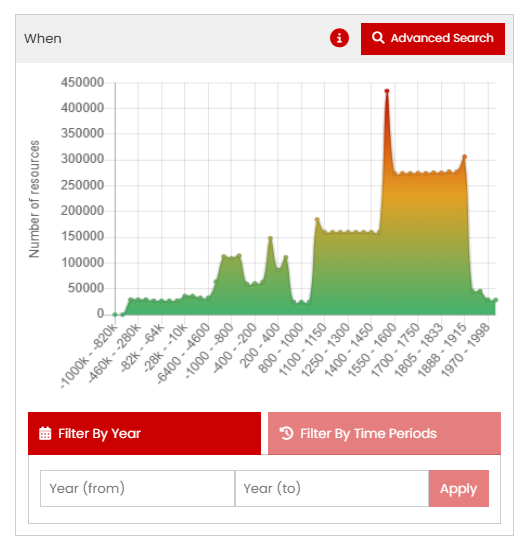
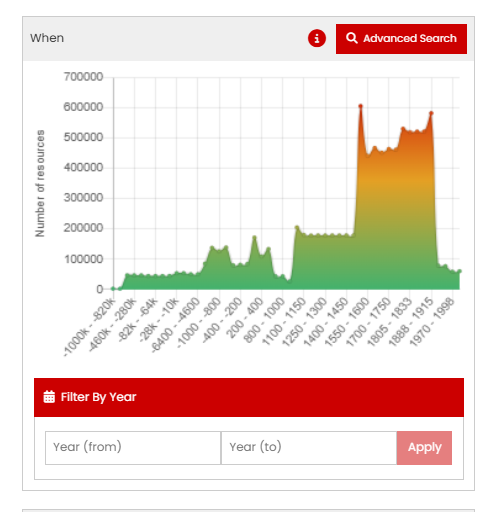
Final update before release 101025

diff --git a/docs/Section-4_Search_Filters.md b/docs/Section-4_Search_Filters.md
@@ -7,9 +7,10 @@ description: How to search the ADS Data Catalogue using the additional search fi
 
 In addition to the  [**What**](Section-1_What.md), [**Where**](Section-2_Map_Where.md), and [**When**](Section-3_Time_period_When.md) tools, several filters operate on specific metadata fields to help you refine your search results. 
 
+Below is a list of the avaiable search filter options, including the context for each filter and advice on how best to use them. 
+
 ![Search filters](../assets/56-Filters_all.png) 
 
-Below is a list of the avaiable search filter options, including the context for each filter and advice on how best to use them. 
 
 ## Resource Type
 
@@ -52,7 +53,7 @@ When search results are displayed, the Getty AAT filter will only show the first
 
 | Publisher | Description |
 | ----------- | ----------- |
-| &nbsp;&nbsp;&nbsp;&nbsp;&nbsp;&nbsp;&nbsp;&nbsp;&nbsp;&nbsp;&nbsp;&nbsp;&nbsp;&nbsp;&nbsp;&nbsp;&nbsp;&nbsp;&nbsp;&nbsp;&nbsp;&nbsp;&nbsp;&nbsp;&nbsp;&nbsp;&nbsp;&nbsp;&nbsp;&nbsp;&nbsp;&nbsp;&nbsp;&nbsp;&nbsp;&nbsp;&nbsp;&nbsp;&nbsp;&nbsp;&nbsp;&nbsp;&nbsp;&nbsp;&nbsp;&nbsp;&nbsp;&nbsp;&nbsp;&nbsp;&nbsp;&nbsp;&nbsp;&nbsp;&nbsp;&nbsp;&nbsp;&nbsp;&nbsp;&nbsp;&nbsp;&nbsp;&nbsp;&nbsp;&nbsp;&nbsp;&nbsp;&nbsp;&nbsp;&nbsp;&nbsp;&nbsp;&nbsp;&nbsp;&nbsp;&nbsp;&nbsp;&nbsp;![List of dataset publishers](../assets/23-Publisher.png) | The Publisher is the organisation that has supplied the metadata to the Data Catalogue and is responsible for the maintaining and updating this metadata. Currently the ADS is the only publisher included in the Data Catalogue. <Br><Br>The Publisher may also own the original data or be responsible for its maintenance, as is the case with regional and national repositories. |
+| &nbsp;&nbsp;&nbsp;&nbsp;&nbsp;&nbsp;&nbsp;&nbsp;&nbsp;&nbsp;&nbsp;&nbsp;&nbsp;&nbsp;&nbsp;&nbsp;&nbsp;&nbsp;&nbsp;&nbsp;&nbsp;&nbsp;&nbsp;&nbsp;&nbsp;&nbsp;&nbsp;&nbsp;&nbsp;&nbsp;&nbsp;&nbsp;&nbsp;&nbsp;&nbsp;&nbsp;&nbsp;&nbsp;&nbsp;&nbsp;&nbsp;&nbsp;&nbsp;&nbsp;&nbsp;&nbsp;&nbsp;&nbsp;&nbsp;&nbsp;&nbsp;&nbsp;&nbsp;&nbsp;&nbsp;&nbsp;&nbsp;&nbsp;&nbsp;&nbsp;&nbsp;&nbsp;&nbsp;&nbsp;&nbsp;&nbsp;&nbsp;&nbsp;&nbsp;&nbsp;&nbsp;&nbsp;&nbsp;&nbsp;&nbsp;&nbsp;&nbsp;&nbsp;![List of dataset publishers](../assets/23-Publisher.png) | The Publisher is the organisation that has supplied the metadata to the Data Catalogue and is responsible for the maintaining and updating this metadata.<Br><Br>The Publisher may also own the original data or be responsible for its maintenance, as is the case with regional and national repositories. |
 
 The “i” icon next to each name provides a short summary about the Publisher on a new page. This page also shows the geographic distribution of that publisher's records on a map and displays the first 20 record, below a link to the Publisher’s website. The second link displays these results in the standard ‘Results’ page.
 
@@ -66,19 +67,20 @@ The “i” icon next to each name provides a short summary about the Publisher 
 | ----------- | ----------- |
 | &nbsp;&nbsp;&nbsp;&nbsp;&nbsp;&nbsp;&nbsp;&nbsp;&nbsp;&nbsp;&nbsp;&nbsp;&nbsp;&nbsp;&nbsp;&nbsp;&nbsp;&nbsp;&nbsp;&nbsp;&nbsp;&nbsp;&nbsp;&nbsp;&nbsp;&nbsp;&nbsp;&nbsp;&nbsp;&nbsp;&nbsp;&nbsp;&nbsp;&nbsp;&nbsp;&nbsp;&nbsp;&nbsp;&nbsp;&nbsp;&nbsp;&nbsp;&nbsp;&nbsp;&nbsp;&nbsp;&nbsp;&nbsp;&nbsp;&nbsp;&nbsp;&nbsp;&nbsp;&nbsp;&nbsp;&nbsp;&nbsp;&nbsp;&nbsp;&nbsp;&nbsp;&nbsp;&nbsp;&nbsp;&nbsp;&nbsp;&nbsp;&nbsp;&nbsp;&nbsp;&nbsp;&nbsp;&nbsp;&nbsp;&nbsp;&nbsp;&nbsp;&nbsp;&nbsp;&nbsp;&nbsp;![List of contributors](../assets/25-Contributor.png) | The Contributor is typically (but not always) the original owner of the data. The Publisher creates and maps the metadata in the Catalogue on behalf of the Contributor.
 
-## Original Subject
-
-| Original Subject| Description |
-| ----------- | ----------- |
-| &nbsp;&nbsp;&nbsp;&nbsp;&nbsp;&nbsp;&nbsp;&nbsp;&nbsp;&nbsp;&nbsp;&nbsp;&nbsp;&nbsp;&nbsp;&nbsp;&nbsp;&nbsp;&nbsp;&nbsp;&nbsp;&nbsp;&nbsp;&nbsp;&nbsp;&nbsp;&nbsp;&nbsp;&nbsp;&nbsp;&nbsp;&nbsp;&nbsp;&nbsp;&nbsp;&nbsp;&nbsp;&nbsp;&nbsp;&nbsp;&nbsp;&nbsp;&nbsp;&nbsp;&nbsp;&nbsp;&nbsp;&nbsp;&nbsp;&nbsp;&nbsp;&nbsp;&nbsp;&nbsp;&nbsp;&nbsp;&nbsp;&nbsp;&nbsp;&nbsp;&nbsp;&nbsp;&nbsp;&nbsp;&nbsp;&nbsp;&nbsp;&nbsp;&nbsp;&nbsp;&nbsp;&nbsp;&nbsp;&nbsp;&nbsp;&nbsp;&nbsp;&nbsp;&nbsp;&nbsp;&nbsp;&nbsp;&nbsp;&nbsp;&nbsp;&nbsp;&nbsp;&nbsp;&nbsp;&nbsp;&nbsp;&nbsp;&nbsp;&nbsp;&nbsp;&nbsp;&nbsp;![Option list of original subject used in the metadata](../assets/26-Original-subject.png)| The original subject is the term from the ontology used by the Contributor and/or Publisher, which has been mapped to the Getty AAT.<Br><Br>The Original subject will, in most cases, be in the native language of the provider. The option to filter using these localised terms facilitates both multi-lingual searches and terminology specific to a single Publisher. |
-
 ## Country
 
 | Country | Description |
 | ----------- | ----------- |
 | &nbsp;&nbsp;&nbsp;&nbsp;&nbsp;&nbsp;&nbsp;&nbsp;&nbsp;&nbsp;&nbsp;&nbsp;&nbsp;&nbsp;&nbsp;&nbsp;&nbsp;&nbsp;&nbsp;&nbsp;&nbsp;&nbsp;&nbsp;&nbsp;&nbsp;&nbsp;&nbsp;&nbsp;&nbsp;&nbsp;&nbsp;&nbsp;&nbsp;&nbsp;&nbsp;&nbsp;&nbsp;&nbsp;&nbsp;&nbsp;&nbsp;&nbsp;&nbsp;&nbsp;&nbsp;&nbsp;&nbsp;&nbsp;&nbsp;&nbsp;&nbsp;&nbsp;&nbsp;&nbsp;&nbsp;&nbsp;&nbsp;&nbsp;&nbsp;&nbsp;&nbsp;&nbsp;&nbsp;&nbsp;&nbsp;&nbsp;&nbsp;&nbsp;&nbsp;&nbsp;&nbsp;&nbsp;&nbsp;&nbsp;&nbsp;&nbsp;&nbsp;&nbsp; ![Country filter showing some options](../assets/57-Country_filter.png) | Country is the modern geographical region(s) that relates to each resource.<Br><Br> The Map tool can be used to define smaller areas or regions that cross multiple countries where modern boundaries do not apply. |
 
+## Original Subject
+
+| Original Subject| Description |
+| ----------- | ----------- |
+| &nbsp;&nbsp;&nbsp;&nbsp;&nbsp;&nbsp;&nbsp;&nbsp;&nbsp;&nbsp;&nbsp;&nbsp;&nbsp;&nbsp;&nbsp;&nbsp;&nbsp;&nbsp;&nbsp;&nbsp;&nbsp;&nbsp;&nbsp;&nbsp;&nbsp;&nbsp;&nbsp;&nbsp;&nbsp;&nbsp;&nbsp;&nbsp;&nbsp;&nbsp;&nbsp;&nbsp;&nbsp;&nbsp;&nbsp;&nbsp;&nbsp;&nbsp;&nbsp;&nbsp;&nbsp;&nbsp;&nbsp;&nbsp;&nbsp;&nbsp;&nbsp;&nbsp;&nbsp;&nbsp;&nbsp;&nbsp;&nbsp;&nbsp;&nbsp;&nbsp;&nbsp;&nbsp;&nbsp;&nbsp;&nbsp;&nbsp;&nbsp;&nbsp;&nbsp;&nbsp;&nbsp;&nbsp;&nbsp;&nbsp;&nbsp;&nbsp;&nbsp;&nbsp;&nbsp;&nbsp;&nbsp;&nbsp;&nbsp;&nbsp;&nbsp;&nbsp;&nbsp;&nbsp;&nbsp;&nbsp;&nbsp;&nbsp;&nbsp;&nbsp;&nbsp;&nbsp;&nbsp;![Option list of original subject used in the metadata](../assets/26-Original-subject.png)| The original subject is the term from the ontology used by the Contributor and/or Publisher, which has been mapped to the Getty AAT.<Br><Br>The Original subject will, in most cases, be in the native language of the provider. The option to filter using these localised terms facilitates both multi-lingual searches and terminology specific to a single Publisher. |
+
 ## Data Type
+
 | Data Type | Description |
 | ----------- | ----------- |
 |&nbsp;&nbsp;&nbsp;&nbsp;&nbsp;&nbsp;&nbsp;&nbsp;&nbsp;&nbsp;&nbsp;&nbsp;&nbsp;&nbsp;&nbsp;&nbsp;&nbsp;&nbsp;&nbsp;&nbsp;&nbsp;&nbsp;&nbsp;&nbsp;&nbsp;&nbsp;&nbsp;&nbsp;&nbsp;&nbsp;&nbsp;&nbsp;&nbsp;&nbsp;&nbsp;&nbsp;&nbsp;&nbsp;&nbsp;&nbsp;&nbsp;&nbsp;&nbsp;&nbsp;&nbsp;&nbsp;&nbsp;&nbsp;&nbsp;&nbsp;&nbsp;&nbsp;&nbsp;&nbsp;&nbsp;&nbsp;&nbsp;&nbsp;&nbsp;&nbsp;&nbsp;&nbsp;&nbsp;&nbsp;&nbsp;&nbsp;&nbsp;&nbsp;&nbsp;&nbsp;&nbsp;&nbsp;&nbsp;&nbsp;&nbsp;&nbsp;&nbsp;&nbsp;&nbsp;&nbsp;&nbsp;&nbsp;&nbsp;&nbsp;&nbsp;&nbsp;&nbsp;&nbsp;&nbsp; ![Country filter showing some options](../assets/58-Data_type_filter.png) | The Data Type refers to the structure of the resource. Most resources are digital in format although some metadata in the Catalogue refers to physical publications. |
@@ -89,7 +91,7 @@ The dating filter works solely on the information in the ‘Dating’ field of t
 
 | Dating | Description |
 | ----------- | ----------- |
-| &nbsp;&nbsp;&nbsp;&nbsp;&nbsp;&nbsp;&nbsp;&nbsp;&nbsp;&nbsp;&nbsp;&nbsp;&nbsp;&nbsp;&nbsp;&nbsp;&nbsp;&nbsp;&nbsp;&nbsp;&nbsp;&nbsp;&nbsp;&nbsp;&nbsp;&nbsp;&nbsp;&nbsp;&nbsp;&nbsp;&nbsp;&nbsp;&nbsp;&nbsp;&nbsp;&nbsp;&nbsp;&nbsp;&nbsp;&nbsp;&nbsp;&nbsp;&nbsp;&nbsp;&nbsp;&nbsp;&nbsp;&nbsp;&nbsp;&nbsp;&nbsp;&nbsp;&nbsp;&nbsp;&nbsp;&nbsp;&nbsp;&nbsp;&nbsp;&nbsp;&nbsp;&nbsp;&nbsp;&nbsp;&nbsp;&nbsp;&nbsp;&nbsp;&nbsp;&nbsp;&nbsp;&nbsp;&nbsp;&nbsp;&nbsp;&nbsp;&nbsp;&nbsp;&nbsp;&nbsp;&nbsp;&nbsp;&nbsp;&nbsp;&nbsp;&nbsp;&nbsp;&nbsp;&nbsp;&nbsp;&nbsp;&nbsp;&nbsp;&nbsp;&nbsp;![List of Dating options for text entry of "medi"](../assets/27-Dating.png) | In this example, all matches to the first four characters “medi” entered in the text box are listed. <p>Several matches to the intended term “medieval” are shown, as well as others where different spellings or languages have been used in the original metadata. <p>One term, "Holoceno medio" (Mid-Holocene) is an unintended match. |
+| &nbsp;&nbsp;&nbsp;&nbsp;&nbsp;&nbsp;&nbsp;&nbsp;&nbsp;&nbsp;&nbsp;&nbsp;&nbsp;&nbsp;&nbsp;&nbsp;&nbsp;&nbsp;&nbsp;&nbsp;&nbsp;&nbsp;&nbsp;&nbsp;&nbsp;&nbsp;&nbsp;&nbsp;&nbsp;&nbsp;&nbsp;&nbsp;&nbsp;&nbsp;&nbsp;&nbsp;&nbsp;&nbsp;&nbsp;&nbsp;&nbsp;&nbsp;&nbsp;&nbsp;&nbsp;&nbsp;&nbsp;&nbsp;&nbsp;&nbsp;&nbsp;&nbsp;&nbsp;&nbsp;&nbsp;&nbsp;&nbsp;&nbsp;&nbsp;&nbsp;&nbsp;&nbsp;&nbsp;&nbsp;&nbsp;&nbsp;&nbsp;&nbsp;&nbsp;&nbsp;&nbsp;&nbsp;&nbsp;&nbsp;&nbsp;&nbsp;&nbsp;&nbsp;&nbsp;&nbsp;&nbsp;&nbsp;&nbsp;&nbsp;&nbsp;&nbsp;&nbsp;&nbsp;&nbsp;&nbsp;&nbsp;&nbsp;&nbsp;&nbsp;&nbsp;![List of Dating options for text entry of "medi"](../assets/27-Dating.png) | In this example, all matches to the first four characters “medi” entered in the text box are listed. <Br><Br>Several matches to the intended term “medieval” are shown, as well as others where different spellings or languages have been used in the original metadata. |
 
 ## Filter options on the results page
 

diff --git a/docs/Section-3_Time_period_When.md b/docs/Section-3_Time_period_When.md
@@ -5,7 +5,7 @@ description: The search options within the ADS Data Catalogue related to 'When' 
 
 # When - The Time period tool
 
-The When tool consists of three different ways of selecting a time period of interest: a graphic where you can use the mouse to select the date range, a text entry box where you can specify start and end years, and a separate filter that uses named time periods as defined in [PeriodO](https://perio.do/en/).
+The When tool consists of two different ways of selecting a time period of interest: a graphic where you can use the mouse to select the date range and a text entry box where you can specify start and end years.
 
 ## The Time line
 
@@ -18,33 +18,13 @@ The When tool consists of three different ways of selecting a time period of int
 
 ## Filter by Year 
 
-An alternative method for selecting a time period is to enter the start and end years in the text box below the graph. 
+An alternative method for selecting a time period is to enter the start and end years in the text box below the graph. Using this menu you can filter the search results by a time period. For dates before 0 AD, use a - sign before the number. The example below shows a search filter between 800 BC and AD 43.
+
+<figure markdown="span">
+  ![Filter for typing in start and end dates](../assets/filter_by_year.png)
+  <figcaption>Filter By Year menu</figcaption>
+</figure>
 
 Using either method (graph or direct year entry), all records that specify a time period falling within or overlapping your selected time period will be returned in the results – as shown in the illustration below.
 
 ![Diagram which shows how resource with time periods which overlap the selected period are included in the results](../assets/16-Resource-time-period-diagram.png)
-
-<p align = center><i>How the time period filter works with the start and end dates specified for each resource</i></p>
-
-## Filter by Time Periods
-
-This option enables filtering of the results by named time periods as defined in [PeriodO](https://perio.do/en/). There are two stages for this filter: Temporal region and Cultural period. The Cultural period can be used as a standalone filter or in combination with Temporal region.
-
-Each box will display up to the first 20 periods. When more exist, you can view additional results by clicking the 'Get 20 more results' button at the bottom of the list. Alternatively, use the text input box above the list to search for specific periods. All matching options are shown as you type.
-
-### Temporal region
-
-| Temporal region | Description |
-| ----------- | ----------- |
-| ![List of temporal region options used to define a time period](../assets/17-Temporal-region-diagram.png) | **Temporal region** displays (mostly modern) regions of interest. Most are at the country level, although there are also some larger historical areas such as the Roman Empire. <p> Next to each region name is the number of defined periods available in PeriodO. |
-| ![Selected temporaral regions from Japan at the top of the list](../assets/18-Named-time-period.png) | Each selected region automatically moves to the top of the list. You can remove and add regions as required. Once you have completed your selection of the regions, click on the Cultural period option to display the list of periods associated with each region. These are listed in date order, starting with the earliest. <p><p> Please note that the time period graph, map and results page do not update until the filter is complete - you must select at least one Cultural period. |
-
-
-### Cultural period
-
-| Cultural period | Description |
-| ----------- | ----------- |
-|  ![List of Cultural periods shown in date order](../assets/19-Cultural-periods.png) |**Cultural periods** displays all the named periods in date order (from earliest) along with the number of matching resources. For each named period, the matching territory is indicated (with ISO 3 letter country code, where available) along with the start year, resource count, and a Help icon. <p>Once you've selected at least one **Temporal region** and one **Cultural period**, the Results page and Time line is updated. |
-| ![Mouseover text showing information about Medieval (HUN) time period](../assets/20-Period-information.png) | Hovering the mouse over the Help icon reveals additional information about the Cultural period. |
-
-You can also use the Cultural period filter independently from the Temporal region filter, especially when searching for a specific period. For example, entering ‘Roman’ in the Cultural period text box will show matches from multiple countries. 

diff --git a/docs/index.md b/docs/index.md
@@ -1,9 +1,10 @@
+![ADS Data Catalogue Logo](assets/ads_data_catalogue_logo.png){ width="650" }
 
 # Getting Started
 
 The Archaeology Data Service [**Data Catalogue**](https://archaeologydataservice.ac.uk/data-catalogue/) is a comprehensive platform for discovering and accessing archaeological data and resources from across the UK. 
 
-With access to over 1 million archaeological resources, the catalogue solves the challenge of discovering relevant materials by bringing together collections deposited with the ADS into one searchable platform. Explore the UK's archaeological heritage through an intuitive interface that lets you search by location, time period, and subject matter.
+With access to over 1 million archaeological resources, the catalogue makes it easy to discover relevant materials by bringing together collections deposited with the ADS and information from historic environment inventories into one searchable platform. Explore the UK's archaeological heritage through an intuitive interface that lets you search by location, time period, and subject matter."
 
 ![ADS Data Catalogue search results page](ads_data_cat_intro.png)
 
@@ -13,7 +14,7 @@ The Catalogue allows you to search using multiple parameters:
 - :earth_americas: Where (geographic location)
 - :clock1: When (time periods). 
 
-Search results can also be displayed in multiple ways: as individual listings, aggregated on an interactive map, or plotted on a timeline view.
+Search results can be displayed in multiple ways: as individual listings, aggregated on an interactive map, or plotted on a timeline view.
 
 Built on the same robust infrastructure developed by the [ARIADNE Research Infrastructure](https://www.ariadne-research-infrastructure.eu/) for the [ARIADNE Portal](https://portal.ariadne-infrastructure.eu/), our catalogue is specifically designed to serve the needs of the ADS community, while presenting our distinctive collection of archaeological datasets and digital resources.
 
@@ -36,4 +37,4 @@ Navigate through the guide using the **menu on the left-hand side of the page**.
 
     Use the search function at the top of the page to quickly jump to any topic across the entire guide.
 
-Ready to start exploring? Begin with [Searching the Catalogue](Section-0_Searching_Catalogue.md) to learn the basics or jump straight to the [Catalogue](LINK) to start discovering archaeological resources.
+Ready to start exploring? Begin with [Searching the Catalogue](Section-0_Searching_Catalogue.md) to learn the basics or jump straight to the [Catalogue](https://archaeologydataservice.ac.uk/data-catalogue/) to start discovering archaeological resources.

diff --git a/docs/Section-1_What.md b/docs/Section-1_What.md
@@ -13,7 +13,7 @@ The What tool allows you to search for specific keywords and terms across select
 | &nbsp;&nbsp;&nbsp;&nbsp;&nbsp;&nbsp;&nbsp;&nbsp;&nbsp;&nbsp;&nbsp;&nbsp;&nbsp;&nbsp;&nbsp;&nbsp;&nbsp;&nbsp;&nbsp;&nbsp;&nbsp;&nbsp;&nbsp;&nbsp;&nbsp;&nbsp;&nbsp;&nbsp;&nbsp;&nbsp;&nbsp;&nbsp;&nbsp;&nbsp;&nbsp;&nbsp;&nbsp;&nbsp;&nbsp;&nbsp;&nbsp;&nbsp;&nbsp;&nbsp;&nbsp;&nbsp;&nbsp;&nbsp;&nbsp;&nbsp;&nbsp;&nbsp;&nbsp;&nbsp;&nbsp;&nbsp;&nbsp;&nbsp;&nbsp;&nbsp;&nbsp;&nbsp;&nbsp;&nbsp;&nbsp;&nbsp;&nbsp;&nbsp;&nbsp;&nbsp;&nbsp;&nbsp;&nbsp;&nbsp;&nbsp;<Br>![Drop down list of basic text search filters - All fields, Time period, Place, Title, Getty AAT Subject](../assets/03-Filters.png) | The search text entry box is located in the top left corner of the page. Five filters are available based on the metadata supplied for each resource: <Br><Br>**All fields** – searches the entire record for matching terms.<Br><Br>**Time period** – searches for time period(s) names, e.g. Iron Age, medieval.<Br><Br>**Place** – searches for place names, from specific locations to continents.<Br><Br>**Title** – searches only within the title fields for matching terms.<br><br>**Getty AAT Subject** – searches subject(s) defined by the data provider that are matched to the Getty Arts and Architecture Thesaurus, enabling you to find data with matching translations and related terms. |
 
 
-Enter one or more keywords in the text search box. When you use multiple words, the search will only find results that include every word you've entered. This is referred to as "AND" logic in search terminology. For example, a search for “gold coin” will return only records where both these words, either next to one another or separately, which are found in the metadata. 
+Enter one or more keywords in the text search box. When you use multiple words, the search will only find results that include every word you've entered. This is referred to as "AND" logic in search terminology. For example, a search for “gold coin” will return only records where both these words, either next to one another or separately, are found in the metadata. 
 
 When you enter a search term, a list of up to 10 matching records are displayed based on where the term appears in the metadata. Records with the highest number of matches are shown first. 
 

diff --git a/docs/Section-6_Tips_and_guidance.md b/docs/Section-6_Tips_and_guidance.md
@@ -38,25 +38,9 @@ This is true for marine archaeology, where political boundaries don't apply to u
 
 ---
 
-## Working with Time Periods
-
-Two approaches have been used to denote time periods – absolute start and end dates and period names. There are pros and cons with using both methods:
-
-**Absolute Dates (Start/End Years)**
-
-- ✅ Provides precise chronological boundaries
-- ⚠ If absolute dates are used across more than one country, there may be irrelevant results
-
-**Named Periods (Bronze Age, Medieval, etc.)**
-
-- ✅ Archaeologically meaningful time preiods
-- ⚠ Same period names cover different dates in different countries
-
----
-
 ## Search Example - Epiacum (Whitley Castle) Roman Fort
 
-This example shows how to overcome common challenges like alternative names, misspellings, and different location references.
+The example below shows how to overcome common challenges like alternative names, misspellings, and different location references.
 
 Epiacum is a Roman Fort located near the town of Alston, Cumbria on the border with Northumbria. It is unusual, being lozenge shaped and with impressive earthworks of banks and ditches and is relatively unexcavated. The fort is also known as Whitley Castle, this name being derived from the nearby Manor of Whitlaw. 
 

diff --git a/docs/Section-2_Map_Where.md b/docs/Section-2_Map_Where.md
@@ -66,7 +66,7 @@ Different icons represent how resources appear on the map tool.
   <figcaption>Cluster icons used to represent groups of resources on the Map</figcaption>
 </figure>
 
-Clusters icons denote locations where multiple resources can be found. The different colours indicate the total number of resources: blue = 1-10, yellow = 11-99 and red 100+ resources.
+Clusters icons denote locations where multiple resources can be found. The different colours indicate the total number of resources: green  = 1-10, red = 11-99 resources.
 
 ![Multiple pins (expanded view) on the map](../assets/12-Multiple-pins.png) 
 

diff --git a/docs/Section-5_Resources.md b/docs/Section-5_Resources.md
@@ -48,14 +48,7 @@ The Resource Page includes all metadata for that resource including, ID, landing
 
 **Xml** – displays the resource data formatted as XML.
 
-**RDF** - generates an RDF file of the resource data.
-
 **Cite** - provides a link for the resource metadata page.
-
-**Report an issue** – generates a contact form (shown below) containing the resource ID (Subject) in which users can report any issues they encounter with the resource.
-
- ![Contact details for this resource](../assets/41-Resource_contact.png)
-<p align="center"><I>The Contact form</I></P>
 
 ### Resource is a part of
 
